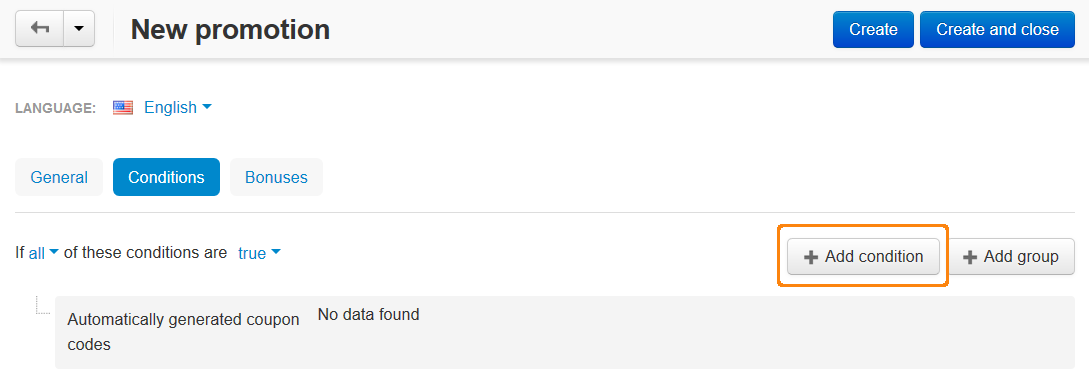
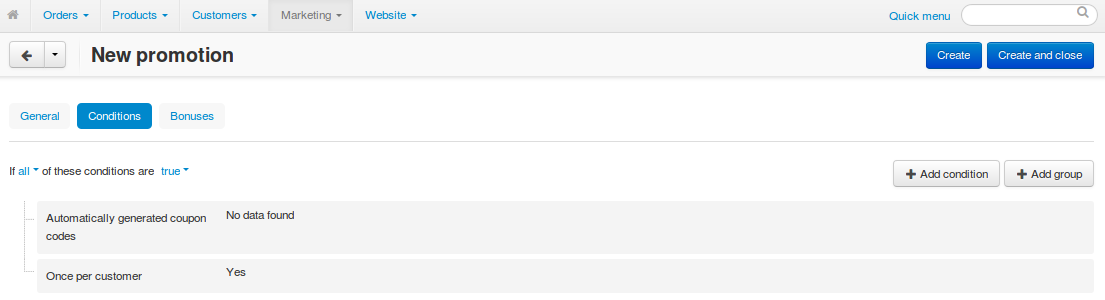
User Guide: Products: Promtions: Automatic Discount Coupons: Reorganized the article.

diff --git a/user_guide/manage_products/promotions/auto_coupons.rst b/user_guide/manage_products/promotions/auto_coupons.rst
@@ -2,41 +2,92 @@
 How To: Create Automatic Discount Coupons for Customers
 *******************************************************
 
-To create a discount coupon promotion:
+.. note::
 
-*   In the Administration panel, go to **Marketing → Promotions**.
-*   Click the **+** button on the right and choose **Add cart promotion**.
-*   Fill information in the **General** section.
-*   Open the **Conditions** tab and click the **Add condition** button.
-*   Select the **Automatically generated coupon codes** option in the opened select box.
+    **Tutorial Difficulty: 1 / 3**
 
-.. image:: img/auto_coupon.png
-    :align: center
-    :alt: New promotion
-
-*   Open the **Bonuses** tab and click the **Add bonus** button.
-*   Select the desired option in the opened select box, then enter the desired value to the opened input box.
-*   Click the **Create** button.
-
-To create a promotion that provides a customer with the automatically generated coupon codes:
-
-*   Go to **Marketing → Promotions**.
-*   Click the **+** button on the right and choose **Add cart promotion**.
-*   Fill information in the **General** section.
-*   Open the **Conditions** tab and click the **Add condition** button.
-*   Select the desired condition (e.g. *Order subtotal*) in the opened select box. Then select the *equal or greater* option in the opened select box and enter the desired value (e.g. 90) in the opened input box.
-*   Open the **Bonuses** tab and click the **Add bonus** button.
-*   Select the **Give coupon** option in the opened select box, select the promotion you created before.
-
-.. image:: img/auto_coupon_01.png
-    :align: center
-    :alt: Editing promotion
-
-*   Click the **Create** button.
+This article describes how to generate automatic discount coupons for customers. Customers receive coupon codes by email and can use them at checkout to get various bonuses. We will need to create two promotions for that.
 
 .. important::
 
-	The certain coupon codes are displayed instead of the **No data found** phrase if there are any coupon codes generated in your store. There should be the **Give coupon** bonus set up for some promotion and there should be the order for which this promotion was applied.
+    Customers can't use coupon codes in the orders they receive these codes for.
 
-For the example described, if a customer orders over the desired order total (e.g. 90) he/she will get the coupon code, it will be displayed at the bottom of the **Order info** page in the **Promotions** section after an order is placed and if he/she opens the **Conditions** tab of the first promotion after that, there will be a coupon code next to the **Automatically generated coupon codes** phrase.
+================================
+Step 1. Create a Discount Coupon
+================================
 
+A discount coupon is a :doc:`cart promotion <index>` that gives bonuses to the customers who enter the coupon code at checkout.
+
+1.1. In the Administration panel, go to **Marketing → Promotions**.
+
+1.2. Click the **+** button in the top right corner and choose **Add cart promotion**.
+
+1.3. Fill in the required fields on the **General** tab. Make sure your promotion has a **Name**, and that the **Status** is set to *Active*.
+
+1.4. Switch to the **Conditions** tab.
+
+1.5. Click the **Add condition** button and select the **Automatically generated coupon codes** option from the dropdown list.
+
+.. note::
+
+    You'll see **"No data found"** next to the condition. It means that no coupon codes have been generated yet. These codes will be generated by the promotion we'll set up in **Step 2**.
+
+1.6. Click **Add condition** again and select the **Once per customer** option from the dropdown list. That way a customer will be able to use a coupon code only once.
+
+.. image:: img/auto_coupon.png
+    :align: center
+    :alt: The conditions you add determine when customers can use coupon codes.
+
+1.7. Switch to the **Bonuses** tab.
+
+1.8. Click the **Add bonus** button and choose the desired bonus from the list.
+
+1.9. Click the **Create** button.
+
+=====================================================
+Step 2. Create a Promotion that Provides Coupon Codes
+=====================================================
+
+A discount coupon alone isn't enough. Coupon codes are generated by a separate :doc:`cart promotion <index>`.
+
+2.1. Go to **Marketing → Promotions**.
+
+2.2. Click the **+** button in the top right corner and choose **Add cart promotion**.
+
+2.3. Fill in the required fields on the **General** tab. Make sure your promotion has a **Name**, and that the **Status** is set to *Active*.
+
+2.4. Switch to the **Conditions** tab.
+
+2.5. Click the **Add condition** button and select the desired condition from the dropdown list.
+
+For example, choose *Order subtotal*, then select *equal or greater*, and enter the *90* in the input field. Then customers will receive the coupon code only if their order subtotal is equal or greater than 90 units in the primary currency of your store.
+
+2.6. Click **Add condition** again and select the **Once per customer** option from the dropdown list. That way only one coupon code will be generated for a customer.
+
+.. image:: img/auto_coupon_02.png
+    :align: center
+    :alt: The conditions you add determine when coupon codes are generated.
+
+2.7. Open the **Bonuses** tab and click the **Add bonus** button.
+
+2.8. Select the **Give coupon** option from the dropdown list, then choose the promotion you created in **Step 1**.
+
+.. important::
+
+    The **Give coupon** bonus generates a code for the selected discount coupon when the conditions are met.
+
+2.9. Click the **Create** button.
+
+.. image:: img/auto_coupon_01.png
+    :align: center
+    :alt: The Give coupon bonus means that the coupon code will be generated and sent to customer.
+
+Now customers will see a popup when they add a product to cart and become eligible for the promotion. They can find their coupon code in the order details. The code won't be work and won't be sent to the customer by email until the status of the order is set to *Complete*.
+
+.. hint::
+
+    Administrators can see the discount coupon codes generated for an order under **Orders → Orders → <Desired Order>** on the **Promotions** tab. However, the code will work only if it appears on the list of automatically generated coupon codes on the first promotion's **Conditions** tab. 
+
+.. image:: img/free_shipping_coupon.png
+    :align: center
+    :alt: Customers can receive coupon code by email or find it in the order details.
